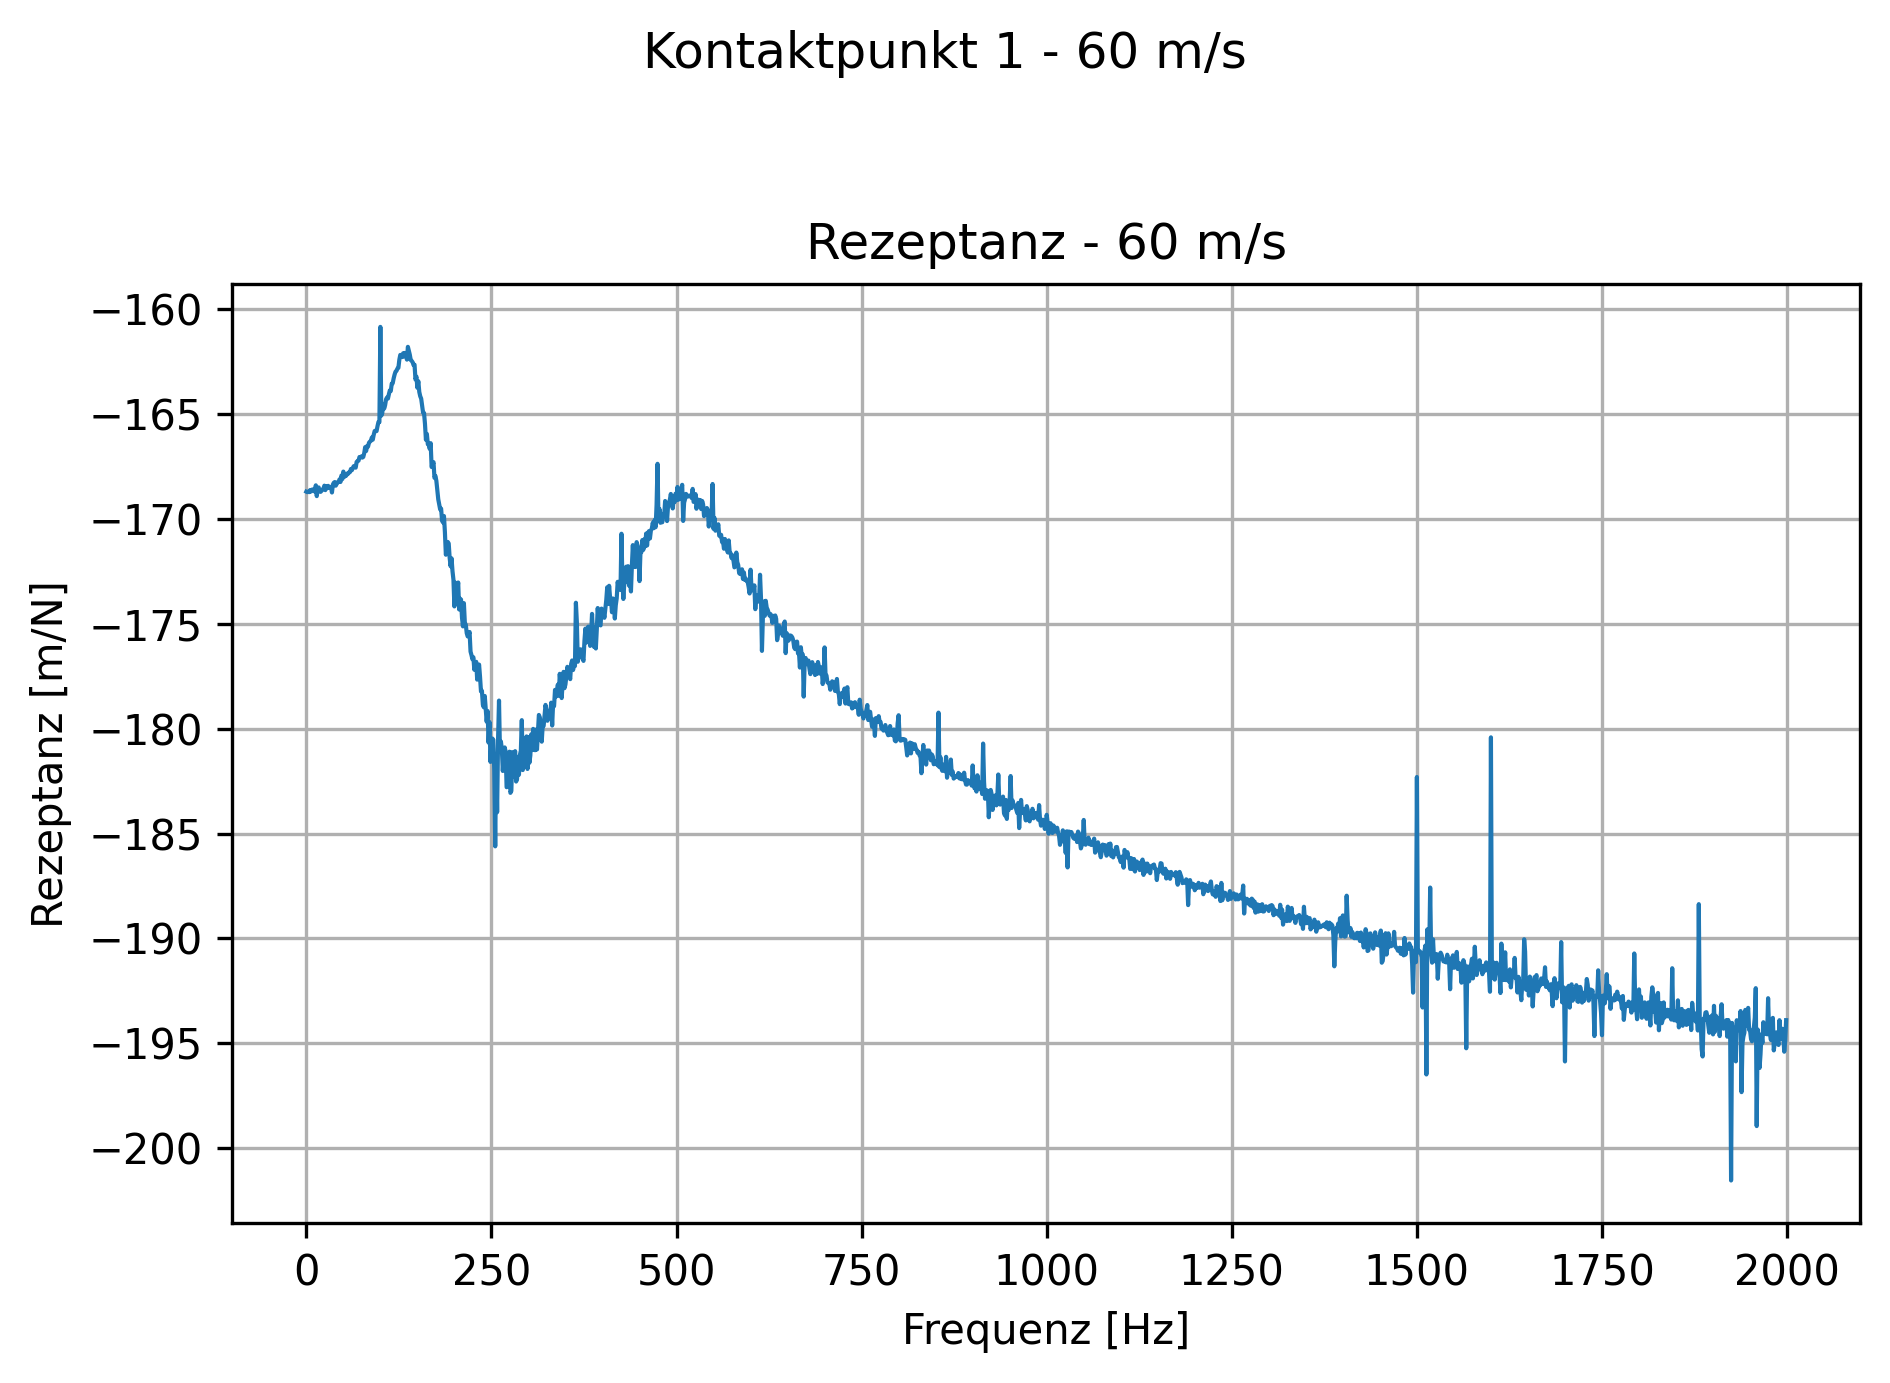
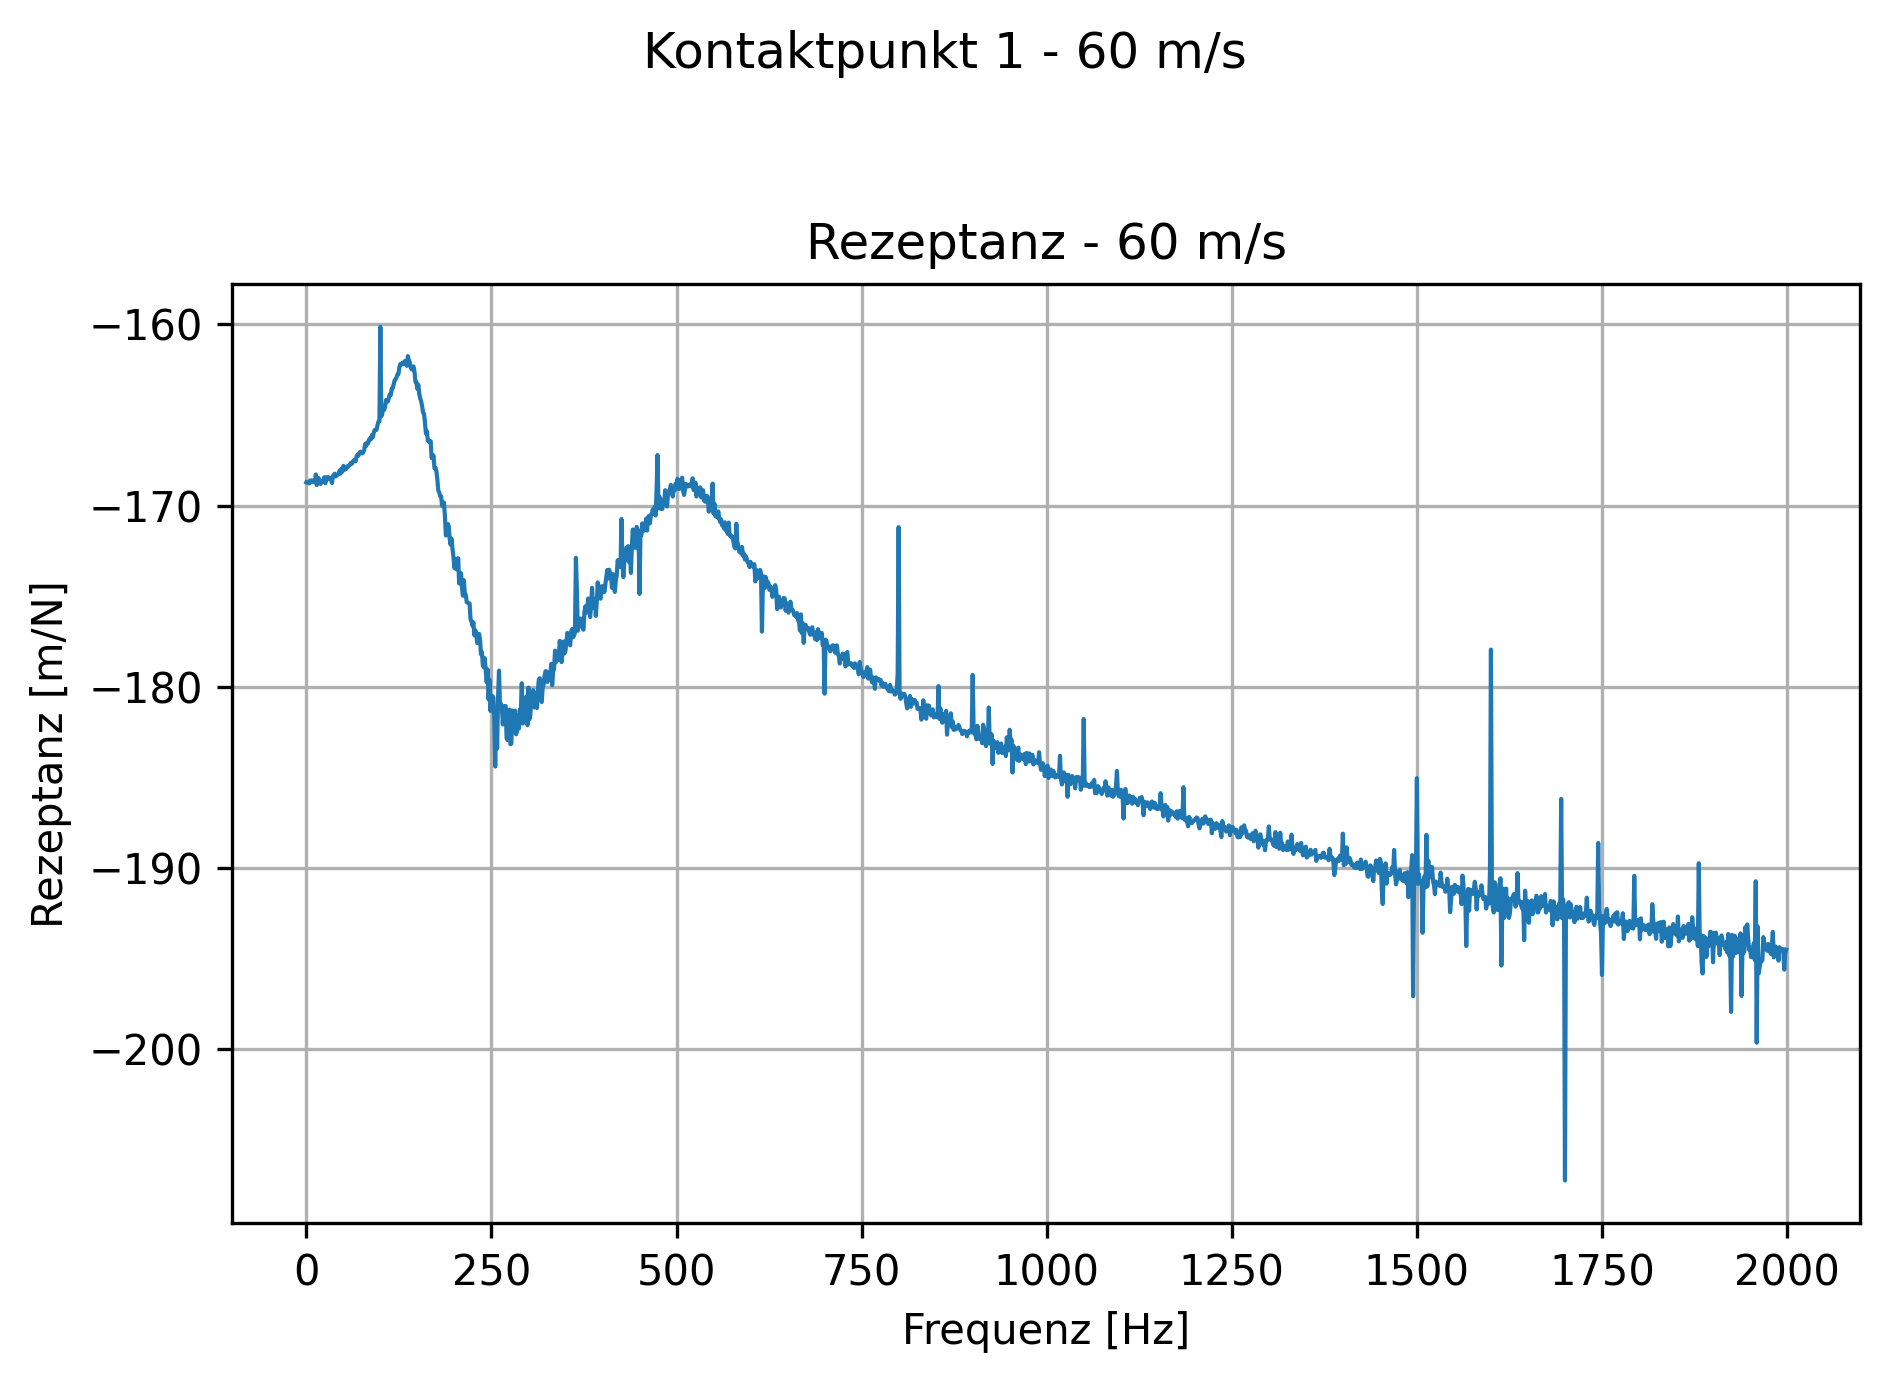
spread contact force to nearest grid points

diff --git a/rolland/deflection.py b/rolland/deflection.py
@@ -59,7 +59,7 @@ class DeflectionEBBVertic(Deflection):
         Deflection array :math:`[m]`.
     store_deflection : bool
         If True, store the full deflection matrix. If False, only store contact-point deflections.
-    excitation_index : int
+    excitation_pos : int
         Index of excitation point :math:`[-]`.
     """
     store_deflection = Bool(default_value=True)
@@ -127,7 +127,7 @@ class DeflectionEBBVertic(Deflection):
         t = linspace(0, self.discr.sim_t, self.discr.nt)
         self.force = self.excit.force(t)
 
-    def calc_rightside_crank_nicolson(self, u1, u0, excitation_index, t):
+    def calc_rightside_crank_nicolson(self, u1, u0, excitation_pos, t):
         """Calculate the right-hand side of the equation according to :cite:t:`stampka2022a`.
 
         Parameters
@@ -136,8 +136,8 @@ class DeflectionEBBVertic(Deflection):
             Deflection array at the current time step.
         u0 : numpy.ndarray    
             Deflection array at the previous time step.
-        excitation_index : int
-            Index of the excitation point.
+        excitation_pos : int
+            Index of the excitation point (not rounded).
         t : int
             Current time step.
 
@@ -149,12 +149,14 @@ class DeflectionEBBVertic(Deflection):
         # create empty force array with length equal to number of DOFs (2*nx)
         f = zeros(2 * self.discr.nx)
 
-        # Handle multiple excitation points if excitation_index is a list
-        if isinstance(excitation_index, list):
-            for idx in excitation_index:
-                f[idx] = self.force[t]
-        else:
-            f[excitation_index] = self.force[t]
+        # distribute force to the two nearest grid points using linear interpolation
+        for pos in excitation_pos:
+            lower_idx = int(np.floor(pos))
+            upper_idx = int(np.ceil(pos))
+            weight_upper = pos - lower_idx
+            weight_lower = 1 - weight_upper
+            f[lower_idx] += self.force[t] * weight_lower
+            f[upper_idx] += self.force[t] * weight_upper
 
         return (self.discr.B.dot(u1) + self.discr.C.dot(u0) + self.discr.dt ** 2 /
                 (self.track.rail.mr * self.discr.dx) * f)
@@ -173,9 +175,6 @@ class DeflectionEBBVertic(Deflection):
         defl : numpy.ndarray
             Full deflection history (2*nx, nt) containing rail and sleeper DOFs
         """
-        # Convert single excitation point to list for uniform handling
-        if not isinstance(self.excit.x_excit, list):
-            self.excit.x_excit = [self.excit.x_excit]
         
         # Calculate initial indices for all excitation points
         self.excitation_indices = [int(x / self.discr.dx) for x in self.excit.x_excit]
@@ -251,14 +250,15 @@ class DeflectionEBBVertic(Deflection):
         # NOTE: starts from t=1 because we need defl at t-1 and t-2 for the Crank-Nicolson scheme
         for t in range(1, self.discr.nt):
             # Calculate current positions based on velocity
-            dx = round((self.excit.velocity * t * self.discr.dt) / self.discr.dx)   # Calculate how many grid points the load has moved
+            dx = (self.excit.velocity * t * self.discr.dt) / self.discr.dx          # Calculate how many grid points the load has moved
             excitation_pos = [idx + dx for idx in self.excitation_indices]          # Update excitation indices for current time step
+            excitation_round = [int(pos) for pos in excitation_pos]                 # Round to nearest grid point indices for storing deflection
             
             # calculate deflection for current time step using Crank-Nicolson scheme
             self.crank_nicolson_step(defl, t, excitation_pos)
 
             # Store deflection at each contact point
-            for i, idx in enumerate(excitation_pos):
+            for i, idx in enumerate(excitation_round):
                 contact_deflection = defl[idx, t]
                 self.contact_point_deflection[i].append(contact_deflection) # Store deflection at newly calculated contact point
         return defl # TODO: check why deflection is longer than contact_defl and force
@@ -268,7 +268,7 @@ class DeflectionEBBVertic(Deflection):
         b = self.calc_rightside_crank_nicolson(
             u1 = defl[:, t-1],
             u0 = defl[:, t-2],
-            excitation_index = excitation_pos,
+            excitation_pos = excitation_pos,
             t = t
         )
         # Calculate deflection for time step t

diff --git a/Moving_Force.py b/Moving_Force.py
@@ -39,14 +39,14 @@ import pickle
 # 0. TESTING PARAMETERS
 # =============================================================================
 use_precalculated_results = False  # Set to True to use pre-calculated results
-store_deflection          = False  # TODO: this is not implemented yet!
+store_deflection          = True   # TODO: this is not implemented yet!
 starting_position         = 80.0   # Starting position [m]
 num_mount                 = 400    # Number of discrete mounting positions
 distance                  = 0.6    # Distance between sleepers [m]
 l_bound                   = 40.0   # Width of boundary domain
 req_simt                  = 1      # Required simulation time [s]
 dt                        = 2.2e-5 # Time step [s]
-velocities                = [60]   # Velocities to simulate [m/s]
+velocities                = [60]   # Velocities to simulate [m/s] NOTE: always give a list, even for a single velocity
 ramp_fraction             = 0.1    # Fraction of total time for ramp up
 static_force              = 65000.0 # Force amplitude [N]
 
@@ -151,17 +151,17 @@ else:
 t = np.linspace(0, req_simt, len(deflection_results.contact_point_deflection[0]))   # time array
 
 # cut the ramp part from the results to avoid transient effects in the FFT
-ramp_length = 10000
+cut_initial = 10000     # TODO: base this on ramp_fraction and total number of time steps
 
 # FFT of force, cut ramp part
-force_fft = fft(deflection_results.force[ramp_length:])
+force_fft = fft(deflection_results.force[cut_initial:])
 
 # Process each contact point
 for i, deflection in enumerate(deflection_results.contact_point_deflection):
 
     # Fast Fourier Transform of deflection at contact point
-    deflection_fft = fft(deflection[ramp_length:])  # FFT of deflection at contact point, cut ramp part
-    freqs = fftfreq(len(t[ramp_length:]), dt)       # FFT sample frequencies
+    deflection_fft = fft(deflection[cut_initial:])  # FFT of deflection at contact point, cut ramp part
+    freqs = fftfreq(len(t[cut_initial:]), dt)       # FFT sample frequencies
     omega = 2 * np.pi * freqs                       # FFT angular sample frequencies
     
     # Calculate FRFs
